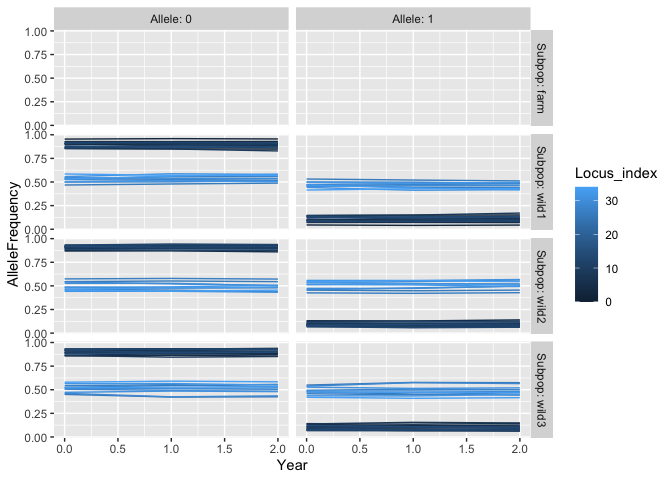
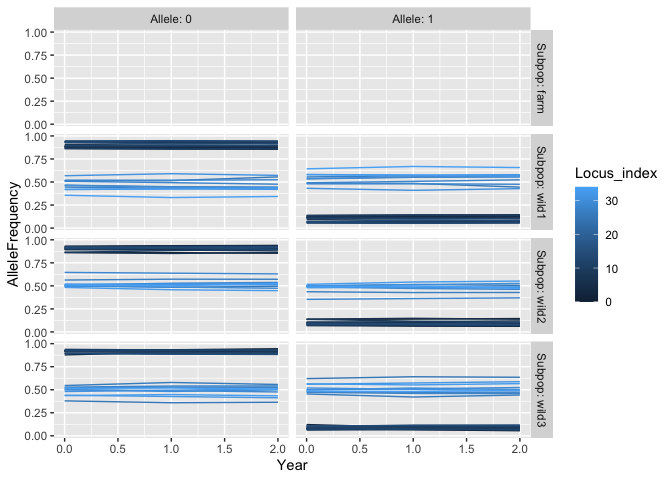
a few small updates

diff --git a/inst/spam.py b/inst/spam.py
@@ -23,7 +23,7 @@ simuOpt.setOptions(alleleType='long', quiet=True)
 import simuPOP as sim
     
 
-def eggs(batch, reps, coreid, freq = None,pre_farm_years = 50, farm_years = 50, post_farm_years = 50,wild_N_init = 3000,rec_a = 750,sd_recruit = 0.01,
+def shellfishrisk(batch, reps, coreid, freq = None,pre_farm_years = 50, farm_years = 50, post_farm_years = 50,wild_N_init = 3000,rec_a = 750,sd_recruit = 0.01,
 numWildOffspring_par = 10,wild_mig_rate_L = 0.035/12, wild_mig_rate_J = 0, wild_mig_rate_A = 0,seed_batch_size = 250,
 numFarmOffspring_par = 20,
 sd_seed = 0.01,

diff --git a/README.md b/README.md
@@ -47,7 +47,7 @@ See the example below for the workflow needed to use this package
 
 ## Example
 
-This example shows you the sequence of steps needed to install requirede
+This example shows you the sequence of steps needed to install required
 Python packages and run `shellfishrisks`.
 
 ``` r
@@ -56,6 +56,9 @@ set.seed(42)
 
 shellfishrisks::install_pypkgs() # installs any missing and required Python packages
 #> shellfishrisks is using Conda environment 'r-reticulate'
+# Note that even if you have previously installed packages in another Python environment the
+# first time you run this you will likely have to install packages again into the `r-reticulate` 
+# Conda environment
 
 library(shellfishrisks) # now load shellfishrisks after installing required python packages
 # If you get an error about a missing Python package, restart R, and then run shellfishrisks::install_pypgks() BEFORE running library(shellfishrisks)
@@ -86,8 +89,9 @@ farm_years <- 1
 
 post_farm_years <- 1
 
-
-eggs(
+# Run shellfishrisk model: this takes about 20min with these 
+# demonstration settings
+shellfishrisk(
   batch = batch_name,
   reps = reps,
   coreid = coreid,
@@ -100,7 +104,7 @@ eggs(
 clean_shellfish(batch = batch_name) # move the results to a folder of the form results/{batch}
 #> results moved to results/dev
 
-results <- process_shellfish(batch = batch_name, results_dir = file.path("results",batch_name)) # read the results stored in .txt files into a list object
+results <- serve_shellfish(batch = batch_name, results_dir = file.path("results",batch_name)) # read the results stored in .txt files into a list object
 
 str(results)
 #> List of 8
@@ -114,41 +118,41 @@ str(results)
 #>   ..$ Allele         : int [1:500] 0 1 0 1 0 1 0 1 0 1 ...
 #>   ..$ Adaptive       : chr [1:500] "True" "True" "True" "True" ...
 #>   ..$ Adv            : chr [1:500] "True" "False" "True" "False" ...
-#>   ..$ AlleleFrequency: num [1:500] 0.9048 0.0952 0.8563 0.1437 0.9545 ...
-#>  $ bstock_report   :'data.frame':    8 obs. of  4 variables:
-#>   ..$ coreid            : int [1:8] 1 1 1 1 1 1 1 1
-#>   ..$ Rep               : int [1:8] 0 0 0 0 0 0 0 0
-#>   ..$ Year              : int [1:8] 1 1 1 1 1 1 1 1
-#>   ..$ IndID_survivedAgeX: num [1:8] 68 96 42 89 65 2 48 64
+#>   ..$ AlleleFrequency: num [1:500] 0.883 0.117 0.863 0.137 0.884 ...
+#>  $ bstock_report   :'data.frame':    10 obs. of  4 variables:
+#>   ..$ coreid            : int [1:10] 1 1 1 1 1 1 1 1 1 1
+#>   ..$ Rep               : int [1:10] 0 0 0 0 0 0 0 0 0 0
+#>   ..$ Year              : int [1:10] 1 1 1 1 1 1 1 1 1 1
+#>   ..$ IndID_survivedAgeX: num [1:10] 59 43 20 14 87 75 56 35 2 68
 #>  $ harvest         :'data.frame':    3 obs. of  5 variables:
 #>   ..$ coreid       : int [1:3] 1 1 1
 #>   ..$ Srep         : int [1:3] 1 1 1
 #>   ..$ Rep          : int [1:3] 0 0 0
 #>   ..$ Year         : int [1:3] 0 1 2
 #>   ..$ IndsHarvested: int [1:3] 0 0 0
-#>  $ life_hist_report:'data.frame':    124701 obs. of  12 variables:
-#>   ..$ coreid       : int [1:124701] 1 1 1 1 1 1 1 1 1 1 ...
-#>   ..$ Rep          : int [1:124701] 0 0 0 0 0 0 0 0 0 0 ...
-#>   ..$ Year         : int [1:124701] 0 0 0 0 0 0 0 0 0 0 ...
-#>   ..$ Month        : chr [1:124701] "Jan" "Jan" "Jan" "Jan" ...
-#>   ..$ Subpop       : chr [1:124701] "wild1" "wild1" "wild1" "wild1" ...
-#>   ..$ IndID        : num [1:124701] 1 2 3 4 5 6 7 8 9 10 ...
-#>   ..$ Sex          : int [1:124701] 1 2 2 2 1 2 2 2 1 2 ...
-#>   ..$ CohortYear   : num [1:124701] 0 0 0 0 0 0 0 0 0 0 ...
-#>   ..$ Age          : num [1:124701] 7.25 4.33 1.17 4.42 4.58 ...
-#>   ..$ Mother_id    : num [1:124701] 0 0 0 0 0 0 0 0 0 0 ...
-#>   ..$ Father_id    : num [1:124701] 0 0 0 0 0 0 0 0 0 0 ...
-#>   ..$ meanParentAge: num [1:124701] 0 0 0 0 0 0 0 0 0 0 ...
+#>  $ life_hist_report:'data.frame':    123420 obs. of  12 variables:
+#>   ..$ coreid       : int [1:123420] 1 1 1 1 1 1 1 1 1 1 ...
+#>   ..$ Rep          : int [1:123420] 0 0 0 0 0 0 0 0 0 0 ...
+#>   ..$ Year         : int [1:123420] 0 0 0 0 0 0 0 0 0 0 ...
+#>   ..$ Month        : chr [1:123420] "Jan" "Jan" "Jan" "Jan" ...
+#>   ..$ Subpop       : chr [1:123420] "wild1" "wild1" "wild1" "wild1" ...
+#>   ..$ IndID        : num [1:123420] 1 2 3 4 5 6 7 8 9 10 ...
+#>   ..$ Sex          : int [1:123420] 2 1 1 1 1 2 1 2 1 1 ...
+#>   ..$ CohortYear   : num [1:123420] 0 0 0 0 0 0 0 0 0 0 ...
+#>   ..$ Age          : num [1:123420] 2.08 4.67 4.67 3.92 6.92 ...
+#>   ..$ Mother_id    : num [1:123420] 0 0 0 0 0 0 0 0 0 0 ...
+#>   ..$ Father_id    : num [1:123420] 0 0 0 0 0 0 0 0 0 0 ...
+#>   ..$ meanParentAge: num [1:123420] 0 0 0 0 0 0 0 0 0 0 ...
 #>  $ log             :'data.frame':    3 obs. of  9 variables:
 #>   ..$ coreid    : int [1:3] 1 1 1
 #>   ..$ rep       : int [1:3] 0 0 0
 #>   ..$ farm_phase: chr [1:3] "pre-farm" "during-farm" "post-farm"
 #>   ..$ year      : int [1:3] 0 1 2
-#>   ..$ wild1_size: int [1:3] 725 1212 1614
-#>   ..$ wild2_size: int [1:3] 701 1223 1648
-#>   ..$ wild3_size: int [1:3] 726 1224 1619
-#>   ..$ farm_size : int [1:3] NA 497 NA
-#>   ..$ time_stamp: chr [1:3] "2021-08-06_09:37:41" "2021-08-06_09:40:14" "2021-08-06_09:43:31"
+#>   ..$ wild1_size: int [1:3] 717 1205 1606
+#>   ..$ wild2_size: int [1:3] 732 1233 1592
+#>   ..$ wild3_size: int [1:3] 711 1205 1547
+#>   ..$ farm_size : int [1:3] NA 491 NA
+#>   ..$ time_stamp: chr [1:3] "2021-08-11_11:32:48" "2021-08-11_11:35:33" "2021-08-11_11:39:22"
 #>  $ pop_pair_rvars  :'data.frame':    36 obs. of  7 variables:
 #>   ..$ coreid  : int [1:36] 1 1 1 1 1 1 1 1 1 1 ...
 #>   ..$ Srep    : int [1:36] 1 1 1 1 1 1 1 1 1 1 ...
@@ -156,7 +160,7 @@ str(results)
 #>   ..$ Year    : int [1:36] 0 0 0 0 0 0 0 0 0 1 ...
 #>   ..$ Pop_pair: chr [1:36] "wild1_wild2" "wild1_wild2" "wild1_wild2" "wild2_wild3" ...
 #>   ..$ Rvar    : chr [1:36] "Fst" "Fst_aL" "Fst_nL" "Fst" ...
-#>   ..$ Value   : num [1:36] 0.00947 0.00774 0.01039 0.00604 0.00434 ...
+#>   ..$ Value   : num [1:36] 0.01217 0.00779 0.01451 0.008 0.00481 ...
 #>  $ pop_rvars       :'data.frame':    40 obs. of  7 variables:
 #>   ..$ coreid: int [1:40] 1 1 1 1 1 1 1 1 1 1 ...
 #>   ..$ Srep  : int [1:40] 1 1 1 1 1 1 1 1 1 1 ...
@@ -164,14 +168,14 @@ str(results)
 #>   ..$ Year  : int [1:40] 0 0 0 0 0 0 0 0 0 0 ...
 #>   ..$ Subpop: chr [1:40] "wild1" "wild1" "wild1" "wild1" ...
 #>   ..$ Rvar  : chr [1:40] "mfit" "popsize" "het" "ar" ...
-#>   ..$ Value : num [1:40] 0.996 835 1 1740 0.997 ...
+#>   ..$ Value : num [1:40] 0.997 845 1 1860 0.997 ...
 #>  $ temp_rvars      :'data.frame':    3 obs. of  6 variables:
 #>   ..$ coreid: int [1:3] 1 1 1
 #>   ..$ Srep  : int [1:3] 1 1 1
 #>   ..$ Rep   : int [1:3] 0 0 0
 #>   ..$ Subpop: chr [1:3] "wild1" "wild2" "wild3"
 #>   ..$ Rvar  : chr [1:3] "Fst" "Fst" "Fst"
-#>   ..$ Value : num [1:3] 0.000528 0.000238 0.00018
+#>   ..$ Value : num [1:3] 3.34e-04 3.98e-04 7.57e-05
 
 results$AFs %>% 
   ggplot(aes(Year, AlleleFrequency, color = Locus_index, group = Locus_index)) + 
